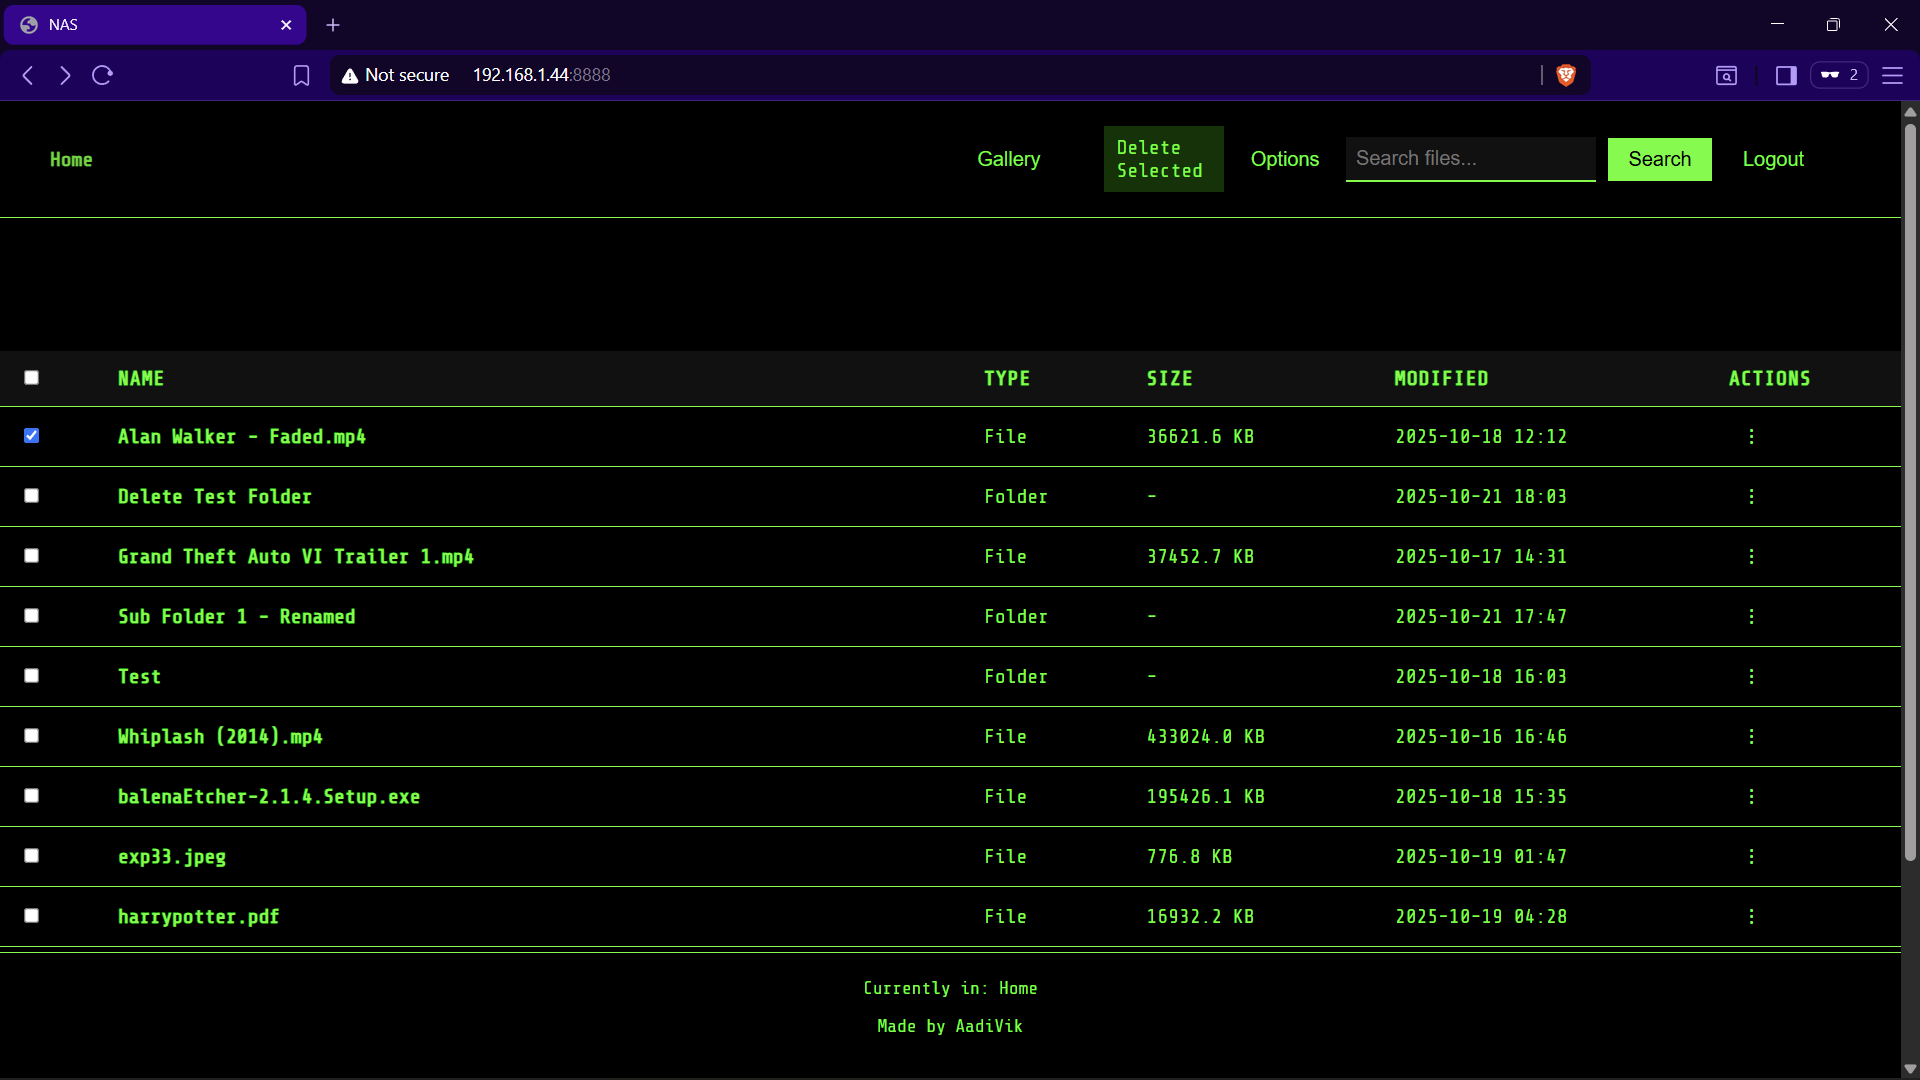
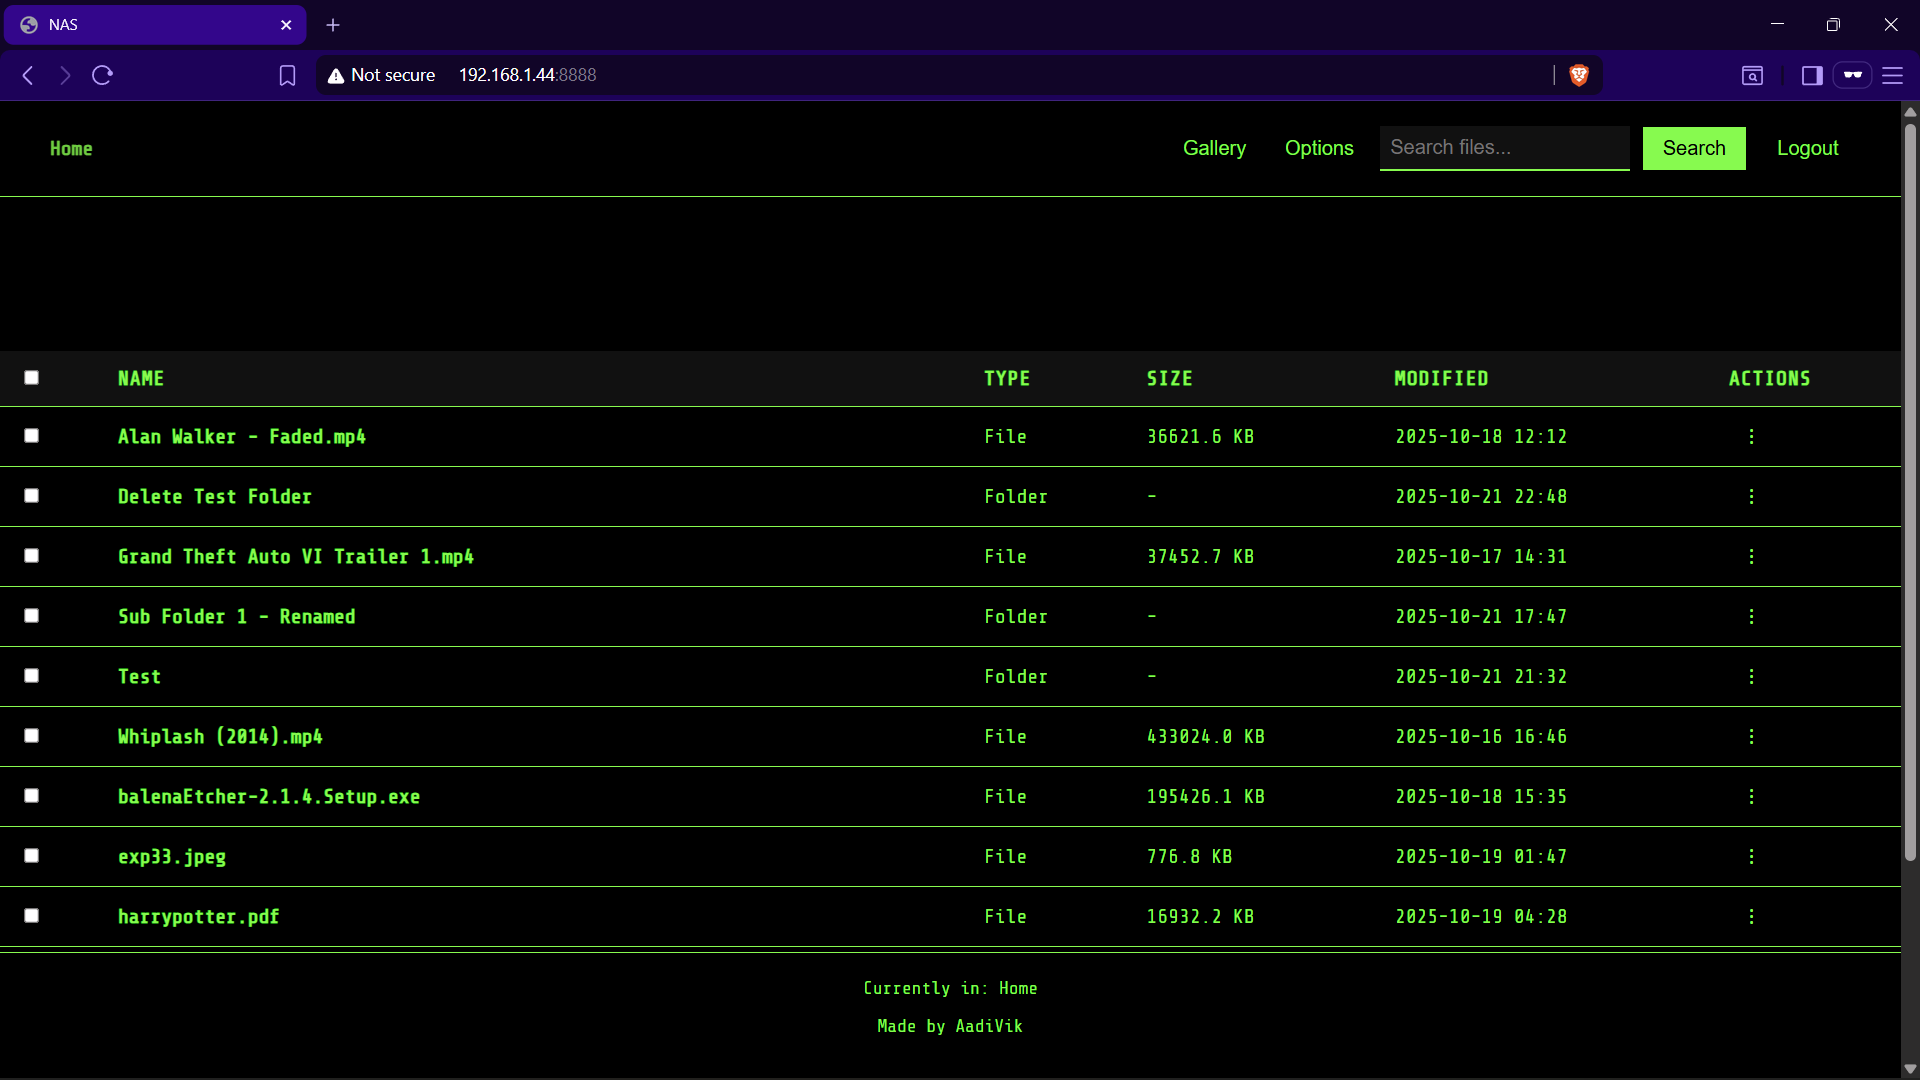
Updated README md file with bulk info

diff --git a/README.md b/README.md
@@ -58,6 +58,10 @@ Network Attached Storage on a Python server running in Ubuntu
 
 ![Root_Directory](assets/Root_Directory.png)
 
+## Bulk Features
+
+![Bulk_Features](assets/Bulk_Features.png)
+
 ## Subfolder with Parent Traversal
 
 ![Subfolder_with_Parent_Traversal](assets/Subfolder_with_Parent_Traversal.png)
